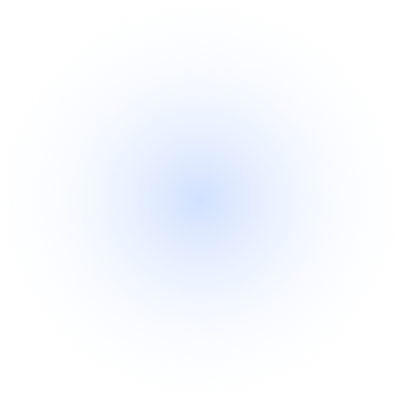
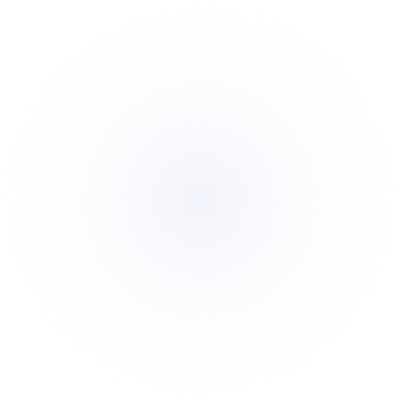
Update on the home page hero background images.

Changed region(s): [[0.42, 0.42, 0.57, 0.57]]

diff --git a/public/news/a-font-for-people-with-dyslexia/index.html b/public/news/a-font-for-people-with-dyslexia/index.html
@@ -48,7 +48,7 @@
     <link rel="mask-icon" href="https://www.aerlytix.com/images/safari-pinned-tab.svg" color="#2b5dc1">
     <link rel="shortcut icon" type="image/x-icon" href="https://www.aerlytix.com/images/favicon.ico">
 
-    <link rel="stylesheet" href="/css/main.css?d5ce-c157-05ec" />
+    <link rel="stylesheet" href="/css/main.css?c8d8-387d-0335" />
     <link rel="alternate" type="application/rss+xml" href="https://www.aerlytix.com/feed.xml" />
       
     
@@ -252,11 +252,11 @@
             <svg class="bd-placeholder-img card-img-top" width="100%" height="225" xmlns="http://www.w3.org/2000/svg" role="img" aria-label="Placeholder: Thumbnail" preserveAspectRatio="xMidYMid slice" focusable="false"><title>Placeholder</title><rect width="100%" height="100%" fill="#55595c"></rect><text x="50%" y="50%" fill="#eceeef" dy=".3em">Thumbnail</text></svg>
 
             <div class="card-body">
-              <h4><a href="/news/color-palette-generator/" class="post-list__link">Color Palette Generator</a></h4>
+              <h4><a href="/news/a-complete-guide-to-wireframe-design/" class="post-list__link">A Complete Guide to Wireframe Design</a></h4>
               <p class="card-text">This is the bit of the entry level text to the post</p>
               <div class="d-flex justify-content-between align-items-center">
                 <div>
-                  <a href="/news/color-palette-generator/" class="btn btn-sm btn-outline-secondary">Read more</a>
+                  <a href="/news/a-complete-guide-to-wireframe-design/" class="btn btn-sm btn-outline-secondary">Read more</a>
                 </div>
                 <small class="text-muted">9th of April 2020</small>
               </div>
@@ -269,11 +269,11 @@
             <svg class="bd-placeholder-img card-img-top" width="100%" height="225" xmlns="http://www.w3.org/2000/svg" role="img" aria-label="Placeholder: Thumbnail" preserveAspectRatio="xMidYMid slice" focusable="false"><title>Placeholder</title><rect width="100%" height="100%" fill="#55595c"></rect><text x="50%" y="50%" fill="#eceeef" dy=".3em">Thumbnail</text></svg>
 
             <div class="card-body">
-              <h4><a href="/news/a-complete-guide-to-wireframe-design/" class="post-list__link">A Complete Guide to Wireframe Design</a></h4>
+              <h4><a href="/news/color-palette-generator/" class="post-list__link">Color Palette Generator</a></h4>
               <p class="card-text">This is the bit of the entry level text to the post</p>
               <div class="d-flex justify-content-between align-items-center">
                 <div>
-                  <a href="/news/a-complete-guide-to-wireframe-design/" class="btn btn-sm btn-outline-secondary">Read more</a>
+                  <a href="/news/color-palette-generator/" class="btn btn-sm btn-outline-secondary">Read more</a>
                 </div>
                 <small class="text-muted">9th of April 2020</small>
               </div>

diff --git a/public/company/FAQs/index.html b/public/company/FAQs/index.html
@@ -48,7 +48,7 @@
     <link rel="mask-icon" href="https://www.aerlytix.com/images/safari-pinned-tab.svg" color="#2b5dc1">
     <link rel="shortcut icon" type="image/x-icon" href="https://www.aerlytix.com/images/favicon.ico">
 
-    <link rel="stylesheet" href="/css/main.css?78af-8c8e-e5c9" />
+    <link rel="stylesheet" href="/css/main.css?e588-4095-240b" />
     <link rel="alternate" type="application/rss+xml" href="https://www.aerlytix.com/feed.xml" />
       
     

diff --git a/public/company/about-us/index.html b/public/company/about-us/index.html
@@ -52,7 +52,7 @@
     <link rel="mask-icon" href="https://www.aerlytix.com/images/safari-pinned-tab.svg" color="#2b5dc1">
     <link rel="shortcut icon" type="image/x-icon" href="https://www.aerlytix.com/images/favicon.ico">
 
-    <link rel="stylesheet" href="/css/main.css?e5d2-d9bf-d141" />
+    <link rel="stylesheet" href="/css/main.css?7d7e-cf0d-7143" />
     <link rel="alternate" type="application/rss+xml" href="https://www.aerlytix.com/feed.xml" />
       
     

diff --git a/public/company/contact-us/index.html b/public/company/contact-us/index.html
@@ -48,7 +48,7 @@
     <link rel="mask-icon" href="https://www.aerlytix.com/images/safari-pinned-tab.svg" color="#2b5dc1">
     <link rel="shortcut icon" type="image/x-icon" href="https://www.aerlytix.com/images/favicon.ico">
 
-    <link rel="stylesheet" href="/css/main.css?0495-cb78-05f1" />
+    <link rel="stylesheet" href="/css/main.css?0e32-11f7-5150" />
     <link rel="alternate" type="application/rss+xml" href="https://www.aerlytix.com/feed.xml" />
       
     

diff --git a/public/company/culture/index.html b/public/company/culture/index.html
@@ -52,7 +52,7 @@
     <link rel="mask-icon" href="https://www.aerlytix.com/images/safari-pinned-tab.svg" color="#2b5dc1">
     <link rel="shortcut icon" type="image/x-icon" href="https://www.aerlytix.com/images/favicon.ico">
 
-    <link rel="stylesheet" href="/css/main.css?37e6-9d80-1cc7" />
+    <link rel="stylesheet" href="/css/main.css?5b22-29c7-7f0c" />
     <link rel="alternate" type="application/rss+xml" href="https://www.aerlytix.com/feed.xml" />
       
     

diff --git a/public/cookies-policy/index.html b/public/cookies-policy/index.html
@@ -52,7 +52,7 @@
     <link rel="mask-icon" href="https://www.aerlytix.com/images/safari-pinned-tab.svg" color="#2b5dc1">
     <link rel="shortcut icon" type="image/x-icon" href="https://www.aerlytix.com/images/favicon.ico">
 
-    <link rel="stylesheet" href="/css/main.css?9641-4429-fa09" />
+    <link rel="stylesheet" href="/css/main.css?7c5f-4d19-4a89" />
     <link rel="alternate" type="application/rss+xml" href="https://www.aerlytix.com/feed.xml" />
       
     

diff --git a/public/index.html b/public/index.html
@@ -54,7 +54,7 @@
     <link rel="mask-icon" href="https://www.aerlytix.com/images/safari-pinned-tab.svg" color="#2b5dc1">
     <link rel="shortcut icon" type="image/x-icon" href="https://www.aerlytix.com/images/favicon.ico">
 
-    <link rel="stylesheet" href="/css/main.css?e00c-c44b-e7e4" />
+    <link rel="stylesheet" href="/css/main.css?615a-945d-a281" />
     <link rel="alternate" type="application/rss+xml" href="https://www.aerlytix.com/feed.xml" />
       
     

diff --git a/public/news/a-complete-guide-to-wireframe-design/index.html b/public/news/a-complete-guide-to-wireframe-design/index.html
@@ -48,7 +48,7 @@
     <link rel="mask-icon" href="https://www.aerlytix.com/images/safari-pinned-tab.svg" color="#2b5dc1">
     <link rel="shortcut icon" type="image/x-icon" href="https://www.aerlytix.com/images/favicon.ico">
 
-    <link rel="stylesheet" href="/css/main.css?d793-9619-415c" />
+    <link rel="stylesheet" href="/css/main.css?4f7c-8bc3-1cb7" />
     <link rel="alternate" type="application/rss+xml" href="https://www.aerlytix.com/feed.xml" />
       
     

diff --git a/public/news/color-palette-generator/index.html b/public/news/color-palette-generator/index.html
@@ -48,7 +48,7 @@
     <link rel="mask-icon" href="https://www.aerlytix.com/images/safari-pinned-tab.svg" color="#2b5dc1">
     <link rel="shortcut icon" type="image/x-icon" href="https://www.aerlytix.com/images/favicon.ico">
 
-    <link rel="stylesheet" href="/css/main.css?829a-4b1d-260c" />
+    <link rel="stylesheet" href="/css/main.css?d2ea-e9d2-7796" />
     <link rel="alternate" type="application/rss+xml" href="https://www.aerlytix.com/feed.xml" />
       
     

diff --git a/public/news/index.html b/public/news/index.html
@@ -48,7 +48,7 @@
     <link rel="mask-icon" href="https://www.aerlytix.com/images/safari-pinned-tab.svg" color="#2b5dc1">
     <link rel="shortcut icon" type="image/x-icon" href="https://www.aerlytix.com/images/favicon.ico">
 
-    <link rel="stylesheet" href="/css/main.css?a4a3-03e7-b52a" />
+    <link rel="stylesheet" href="/css/main.css?86b2-fbdf-e334" />
     <link rel="alternate" type="application/rss+xml" href="https://www.aerlytix.com/feed.xml" />
       
     

diff --git a/public/privacy-policy/index.html b/public/privacy-policy/index.html
@@ -52,7 +52,7 @@
     <link rel="mask-icon" href="https://www.aerlytix.com/images/safari-pinned-tab.svg" color="#2b5dc1">
     <link rel="shortcut icon" type="image/x-icon" href="https://www.aerlytix.com/images/favicon.ico">
 
-    <link rel="stylesheet" href="/css/main.css?595a-82d1-3414" />
+    <link rel="stylesheet" href="/css/main.css?1a1b-9206-620b" />
     <link rel="alternate" type="application/rss+xml" href="https://www.aerlytix.com/feed.xml" />
       
     

diff --git a/public/products/analysis-and-risk-management/index.html b/public/products/analysis-and-risk-management/index.html
@@ -52,7 +52,7 @@
     <link rel="mask-icon" href="https://www.aerlytix.com/images/safari-pinned-tab.svg" color="#2b5dc1">
     <link rel="shortcut icon" type="image/x-icon" href="https://www.aerlytix.com/images/favicon.ico">
 
-    <link rel="stylesheet" href="/css/main.css?e9d9-9bfb-6fb6" />
+    <link rel="stylesheet" href="/css/main.css?6e10-cf1a-b821" />
     <link rel="alternate" type="application/rss+xml" href="https://www.aerlytix.com/feed.xml" />
       
     
